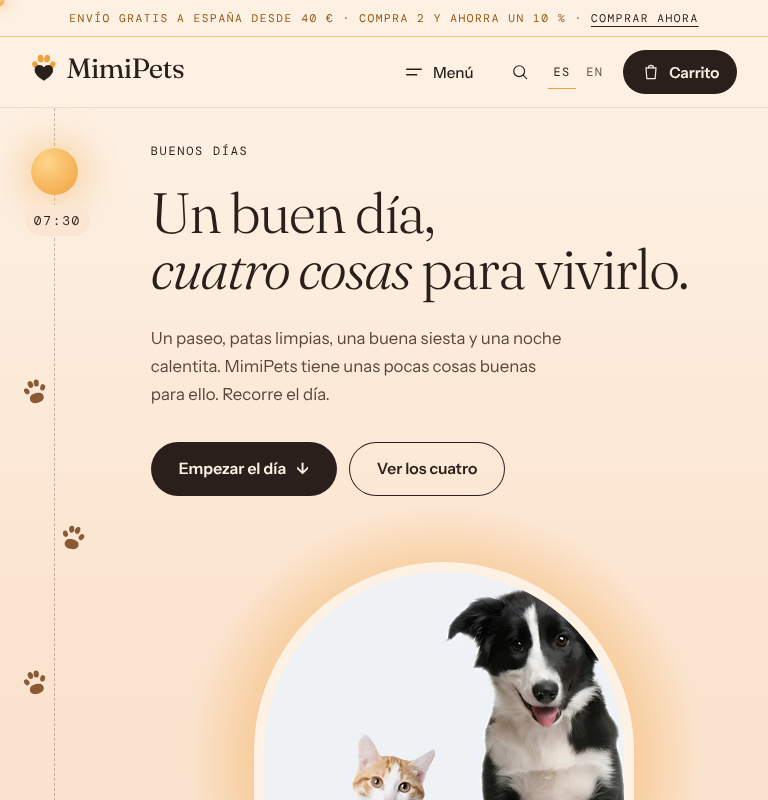
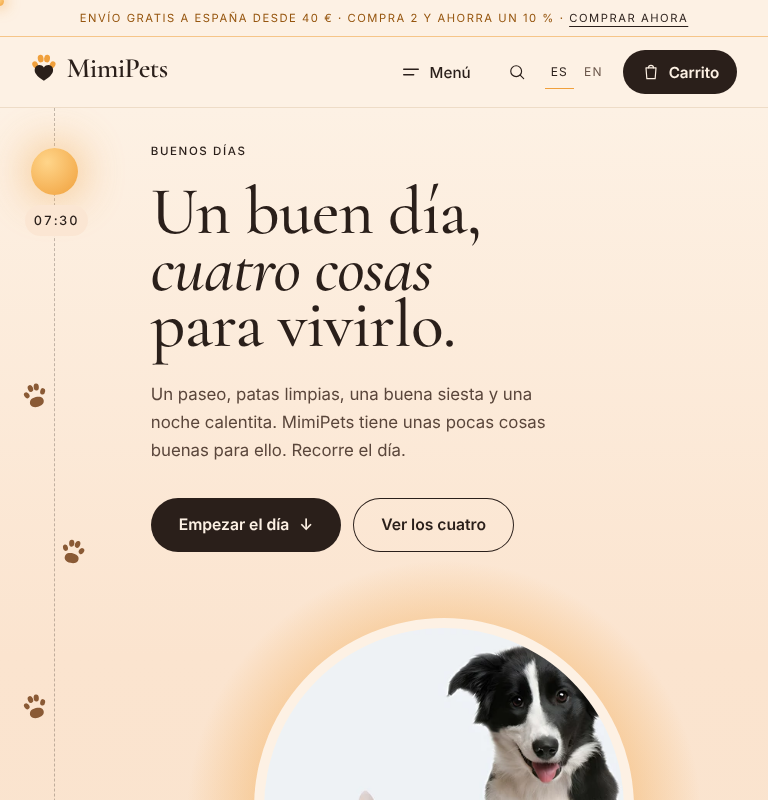
Fonts: Cormorant Garamond headings, Inter for the rest
Headings and the MimiPets wordmark are set in Cormorant Garamond; body
text, prices, buttons and the small labels in Inter. Both load as one
variable font file each, replacing Fraunces, Instrument Sans and DM
Mono. Cormorant is scaled with font-size-adjust so headings keep their
size.

Inter is a little wider, so button text no longer wraps: on phones the
card buttons are tighter, a button that has no room beside its price
moves under it, and on tablets the paw washer cards stack one per row.

Claude-Session: https://claude.ai/code/session_01W8hsiWPjb2UxqJw8UVpYvn

diff --git a/src/app/globals.css b/src/app/globals.css
@@ -34,9 +34,10 @@
   --on-photo: #f4efe6;
   --on-photo-soft: #e2dacd;
   --gold-photo: #c9a96e;
-  --display: var(--font-display), "Fraunces", Georgia, "Times New Roman", serif;
-  --body: var(--font-body), "Instrument Sans", "Segoe UI", system-ui, -apple-system, sans-serif;
-  --mono: var(--font-mono), "DM Mono", ui-monospace, "SFMono-Regular", Menlo, monospace;
+  --display: var(--font-display), "Cormorant Garamond", Georgia, "Times New Roman", serif;
+  --body: var(--font-body), "Inter", "Segoe UI", system-ui, -apple-system, sans-serif;
+  /* The small labels (times of day, spec names) are Inter too, in spaced capitals. */
+  --mono: var(--body);
   /* Corners: controls (buttons, pills, fields) and cards (boxes, FAQ rows). */
   --radius: 10px;
   --card-radius: 14px;
@@ -1167,19 +1168,21 @@ html.motion img.soft-img:not([data-loaded]) {
   --header-h: 72px;
 }
 /* ─── Day look: type and controls ────────────────────────────────────────
-   Light Fraunces headings, sentence-case pill buttons, and DM Mono for the
-   small labels. */
+   Cormorant Garamond headings, Inter for the rest, sentence-case pill
+   buttons, and small labels in spaced capitals. Cormorant's lower-case
+   letters are small for their size, so headings are scaled up to match
+   (font-size-adjust keeps every heading size in proportion). */
 :root[data-theme="day"] :is(h1, h2, h3, h4) {
-  font-weight: 300;
-  letter-spacing: -0.03em;
+  font-weight: 500;
+  letter-spacing: -0.015em;
   line-height: 1;
-  font-optical-sizing: auto;
+  font-size-adjust: 0.46;
 }
 :root[data-theme="day"] :is(h1, h2, h3, h4) :is(em, i) {
-  font-weight: 300;
+  font-weight: 500;
 }
 :root[data-theme="day"] h3 {
-  letter-spacing: -0.02em;
+  letter-spacing: -0.01em;
   line-height: 1.1;
 }
 :root[data-theme="day"] .eyebrow {
@@ -1235,12 +1238,14 @@ html.motion img.soft-img:not([data-loaded]) {
 :root[data-theme="day"] .btn:active:not(:disabled) {
   transform: scale(0.97);
 }
-/* The mono label used across the day pages: times, numbers, spec names. */
+/* The small label used across the day pages: times and spec names. */
 .mono {
   font-family: var(--mono);
-  font-size: 0.75rem;
+  font-size: 0.72rem;
+  font-weight: 500;
   letter-spacing: 0.14em;
   text-transform: uppercase;
+  font-variant-numeric: tabular-nums;
 }
 :root[data-theme="day"] .btn-gold::after {
   background: linear-gradient(105deg, transparent 30%, rgba(255, 244, 222, 0.2) 50%, transparent 70%);

diff --git a/src/app/[lang]/layout.tsx b/src/app/[lang]/layout.tsx
@@ -1,5 +1,5 @@
 import type { Metadata, Viewport } from "next";
-import { DM_Mono, Fraunces, Instrument_Sans } from "next/font/google";
+import { Cormorant_Garamond, Inter } from "next/font/google";
 import { notFound } from "next/navigation";
 import { CartDrawer } from "@/components/cart/CartDrawer";
 import { CartProvider } from "@/components/cart/CartProvider";
@@ -20,27 +20,20 @@ import { getProducts, isDemoMode } from "@/lib/commerce";
 import { look, lookColor, siteConfig } from "@/lib/config";
 import "../globals.css";
 
-// Fraunces (light, with its optical-size axis) for headings and the wordmark,
-// Instrument Sans for text, DM Mono for the small labels and times of day.
-// The first two are variable fonts: loading them without a `weight` list
-// fetches each file once (listing weights makes Google repeat the files, which
-// breaks the Turbopack build). DM Mono has no variable version.
-const fraunces = Fraunces({
+// Cormorant Garamond for headings and the wordmark (elegant and warm), Inter
+// for everything else: text, prices, buttons and the small labels. Both are
+// variable fonts: loading them without a `weight` list fetches each file once
+// (listing weights makes Google repeat the files, which breaks the Turbopack
+// build).
+const cormorant = Cormorant_Garamond({
   subsets: ["latin"],
   style: ["normal", "italic"],
-  axes: ["opsz"],
   variable: "--font-display",
   display: "swap",
 });
-const instrument = Instrument_Sans({
+const inter = Inter({
   subsets: ["latin"],
   variable: "--font-body",
-  display: "swap",
-});
-const mono = DM_Mono({
-  subsets: ["latin"],
-  weight: ["400", "500"],
-  variable: "--font-mono",
   display: "swap",
 });
 
@@ -90,7 +83,7 @@ export default async function RootLayout({ children, params }: LayoutProps<"/[la
       lang={lang}
       data-theme={look}
       data-scroll-behavior="smooth"
-      className={`${fraunces.variable} ${instrument.variable} ${mono.variable}`}
+      className={`${cormorant.variable} ${inter.variable}`}
     >
       <body>
         <a className="skip" href="#main">

diff --git a/src/components/home/Day.module.css b/src/components/home/Day.module.css
@@ -711,23 +711,31 @@
 }
 .buy {
   display: flex;
+  flex-wrap: wrap;
   justify-content: space-between;
   align-items: center;
   gap: 16px;
   margin-top: 22px;
+}
+/* The button keeps its words on one line; where there is no room beside
+   the price, it moves under it. */
+.buy :global(.btn) {
+  white-space: nowrap;
 }
 .priceBox {
   display: grid;
   gap: 2px;
 }
 .price {
-  font-family: var(--display);
-  font-size: 2.1rem;
-  font-weight: 400;
+  font-family: var(--body);
+  font-size: 1.75rem;
+  font-weight: 600;
   letter-spacing: -0.02em;
-  line-height: 1.1;
+  line-height: 1.15;
+  font-variant-numeric: tabular-nums;
 }
 .details {
+  white-space: nowrap;
   font-size: 0.875rem;
   font-weight: 500;
   color: var(--ink-soft);
@@ -1201,6 +1209,10 @@
 
 /* ── Small tablets: the opening stacks, as on phones ─────────────────── */
 @media (max-width: 900px) {
+  /* One product card per row, so its colours and sizes have room. */
+  .plates {
+    grid-template-columns: minmax(0, 560px);
+  }
   .hero {
     grid-template-columns: 1fr;
     gap: 34px;
@@ -1516,10 +1528,13 @@
     margin-top: 18px;
   }
   .price {
-    font-size: 1.75rem;
+    font-size: 1.5rem;
   }
-  .buy :global(.btn) {
-    padding-inline: 22px;
+  .buy :global(.btn.btn) {
+    flex: none;
+    padding-inline: 18px;
+    font-size: 0.92rem;
+    white-space: nowrap;
   }
   .proof {
     margin-top: 48px;

diff --git a/src/components/product/ProductDetail.module.css b/src/components/product/ProductDetail.module.css
@@ -182,10 +182,11 @@
   line-height: 1;
 }
 .price {
-  font-family: var(--display);
-  font-weight: 500;
+  font-family: var(--body);
+  font-weight: 600;
+  letter-spacing: -0.02em;
   color: var(--gold-ink);
-  font-size: 2rem;
+  font-size: 1.75rem;
   line-height: 1;
   font-variant-numeric: lining-nums tabular-nums;
 }
@@ -459,8 +460,10 @@
   color: var(--ink-soft);
 }
 .offerPrice {
-  font-family: var(--display);
-  font-size: 1.35rem;
+  font-family: var(--body);
+  font-weight: 600;
+  font-size: 1.2rem;
+  letter-spacing: -0.01em;
   line-height: 1.1;
 }
 .offerPrice s {

diff --git a/src/components/cart/Cart.module.css b/src/components/cart/Cart.module.css
@@ -223,9 +223,9 @@
 .total {
   display: flex;
   justify-content: space-between;
-  font-family: var(--display);
-  font-weight: 500;
-  font-size: 1.5rem;
+  font-family: var(--body);
+  font-weight: 600;
+  font-size: 1.3rem;
   font-variant-numeric: lining-nums tabular-nums;
 }
 

diff --git a/src/components/brand/Wordmark.module.css b/src/components/brand/Wordmark.module.css
@@ -14,7 +14,7 @@
 }
 .name {
   font-family: var(--display);
-  font-weight: 400;
+  font-weight: 600;
   letter-spacing: -0.02em;
   color: var(--logo-name);
 }

diff --git a/README.md b/README.md
@@ -2,11 +2,10 @@
 
 A Next.js storefront for **MimiPets** (“Little things. Happier pets.” / “Pequeños detalles.
 Mascotas más felices.”), first built from the `mimopets_4.html` prototype and now in a
-luxury look with three palettes: **white & gold** (current: warm ivory, champagne gold,
-espresso and soft beige), **sand** and **black & gold**, switched with `look` in
-`src/lib/config.ts` (palettes in `src/app/globals.css`). All use Playfair Display for headings
-and the MIMIPETS wordmark, and Inter for text. The home page is laid out like a catalogue: the name over a framed photo, a row
-of products on stone tiles, product + lifestyle pairs, the promises and a guide block. Products,
+"One good day" look (`look = "day"` in `src/lib/config.ts`, palettes in
+`src/app/globals.css`): the home page follows a pet's day from sunrise to lights out, each
+product in its moment. Headings and the MimiPets wordmark use Cormorant Garamond; text,
+prices, buttons and the small labels use Inter. See `docs/MOTION.md` for the scroll story. Products,
 prices, the cart and checkout come from Shopify through the **Storefront API**. The site is in
 **English and Spanish**. The share-preview images (`src/lib/og/frame.tsx`) still use the
 prototype's purple and pink.
